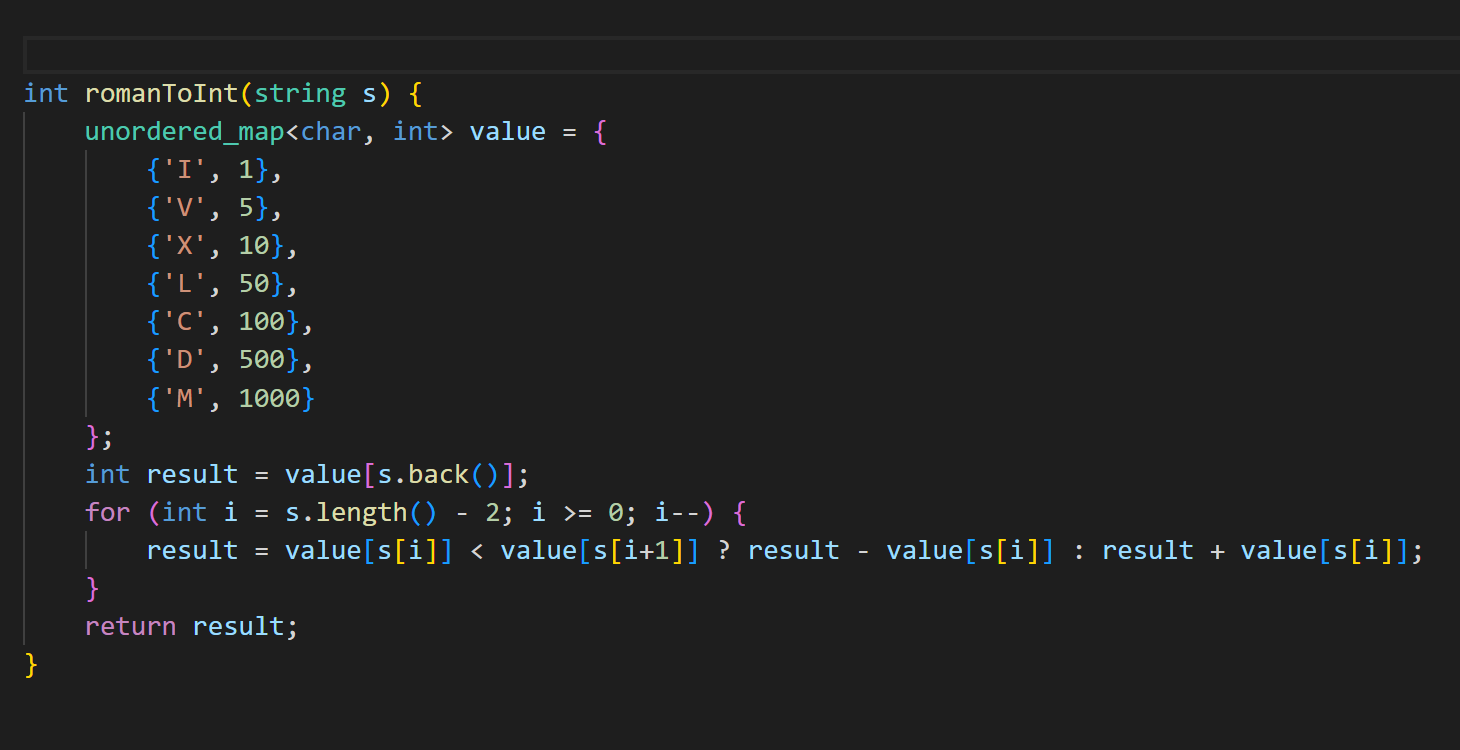
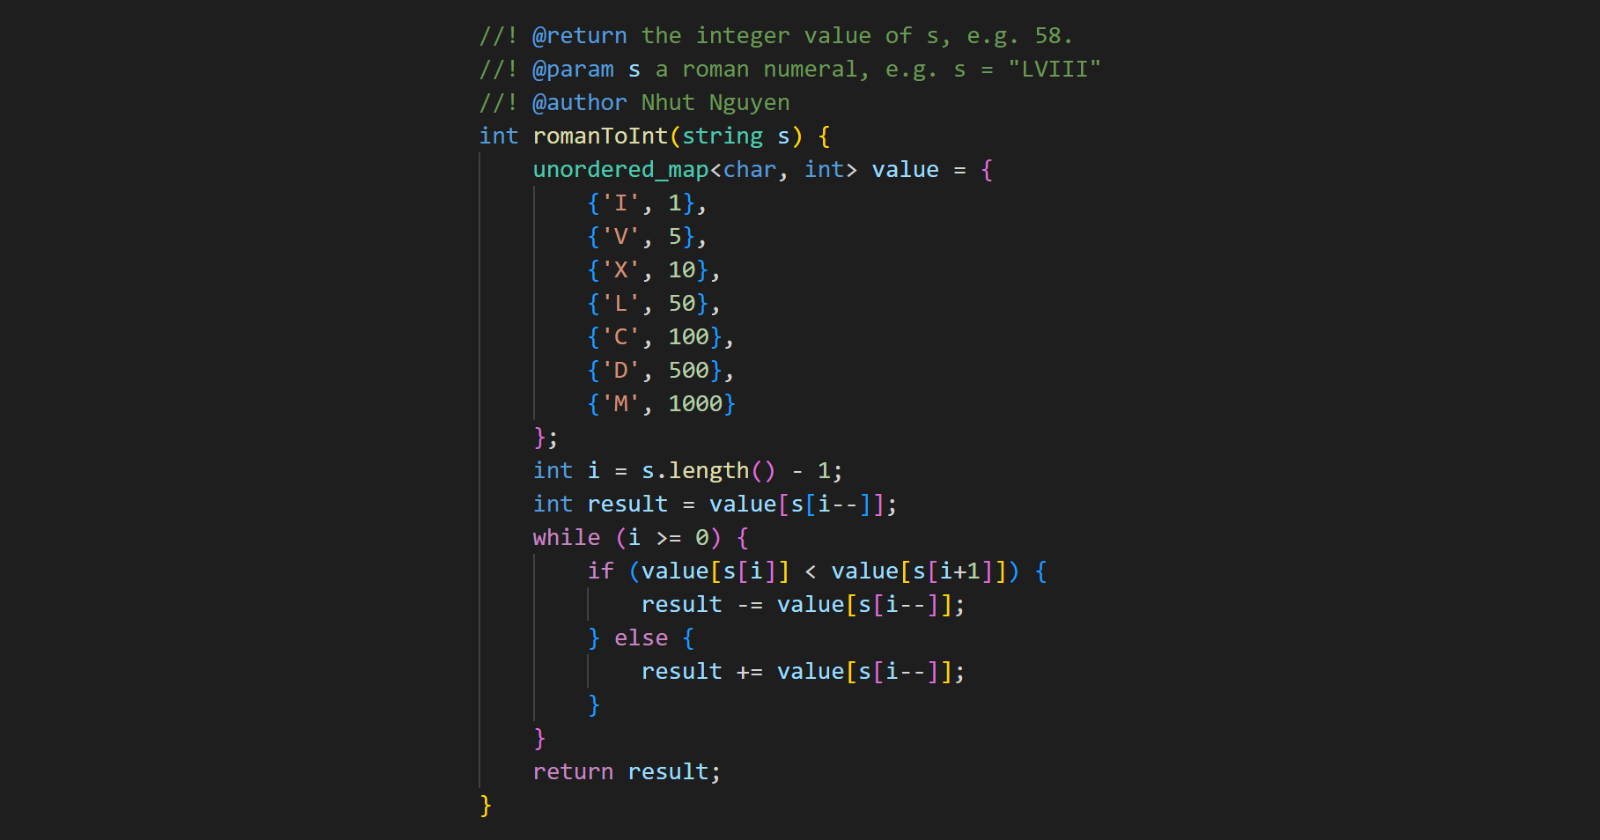
cleaner code

diff --git a/13. Roman to Integer/13_Roman_to_Integer.cpp b/13. Roman to Integer/13_Roman_to_Integer.cpp
@@ -1,6 +1,10 @@
 #include <iostream>
 #include <unordered_map>
 using namespace std;
+
+//! @return the integer value of s, e.g. 58.
+//! @param s a roman numeral, e.g. s = "LVIII" 
+//! @author Nhut Nguyen
 int romanToInt(string s) {
     unordered_map<char, int> value = {
         {'I', 1},
@@ -11,12 +15,18 @@ int romanToInt(string s) {
         {'D', 500},
         {'M', 1000}
     };
-    int result = value[s.back()];
-    for (int i = s.length() - 2; i >= 0; i--) {
-        result = value[s[i]] < value[s[i+1]] ? result - value[s[i]] : result + value[s[i]];
+    int i = s.length() - 1;
+    int result = value[s[i--]];
+    while (i >= 0) {
+        if (value[s[i]] < value[s[i+1]]) {
+            result -= value[s[i--]]; 
+        } else {
+            result += value[s[i--]];
+        }
     }
     return result;
 }
+
 int main() {
     cout << romanToInt("III") << endl;
     cout << romanToInt("LVIII") << endl;

diff --git a/13. Roman to Integer/README.md b/13. Roman to Integer/README.md
@@ -22,7 +22,7 @@ Roman numerals are usually written from largest to smallest from left to right. 
 * `X` can be placed before `L` (`50`) and `C` (`100`) to make `40` and `90`. 
 * `C` can be placed before `D` (`500`) and `M` (`1000`) to make `400` and `900`.
 
-Given a roman numeral, convert it to an integer.
+Given a Roman numeral, convert it to an integer.
 
  
 
@@ -36,7 +36,7 @@ Explanation: III = 3.
 ```plain
 Input: s = "LVIII"
 Output: 58
-Explanation: L = 50, V= 5, III = 3.
+Explanation: L = 50, V = 5, III = 3.
 ```
 
 #### Example 3
@@ -54,7 +54,7 @@ Explanation: M = 1000, CM = 900, XC = 90 and IV = 4.
 
 ### Solution: Mapping and summing the values
 
-To treat the subtraction cases easier you can iterate the string `s` backward.
+And to treat the subtraction cases easier, you can iterate the string `s` backward.
 
 #### Code
 ```cpp
@@ -71,9 +71,14 @@ int romanToInt(string s) {
         {'D', 500},
         {'M', 1000}
     };
-    int result = value[s.back()];
-    for (int i = s.length() - 2; i >= 0; i--) {
-        result = value[s[i]] < value[s[i+1]] ? result - value[s[i]] : result + value[s[i]];
+    int i = s.length() - 1;
+    int result = value[s[i--]];
+    while (i >= 0) {
+        if (value[s[i]] < value[s[i+1]]) {
+            result -= value[s[i--]]; 
+        } else {
+            result += value[s[i--]];
+        }
     }
     return result;
 }
@@ -94,6 +99,10 @@ Output:
 * Runtime: `O(N)` where `N = s.length`.
 * Extra space: `O(1)` (the map `value` is very small).
 
-### References
-* [https://leetcode.com/problems/roman-to-integer/](https://leetcode.com/problems/roman-to-integer/)
-* [https://www.leetsolve.com/13-roman-to-integer](https://www.leetsolve.com/13-roman-to-integer)
+### Conclusion
+
+As the problem is about encoding/decoding between a string and an integer, you could you an [unordered_map](https://en.cppreference.com/w/cpp/container/unordered_map) here.
+
+This is a very interesting problem since it is about history and mathematics. You can read more about it on [Wikipedia](https://en.wikipedia.org/wiki/Roman_numerals).
+
+What is your solution to this problem? Check the correction and the performance of your code at [leetcode.com](https://leetcode.com/problems/roman-to-integer/).
